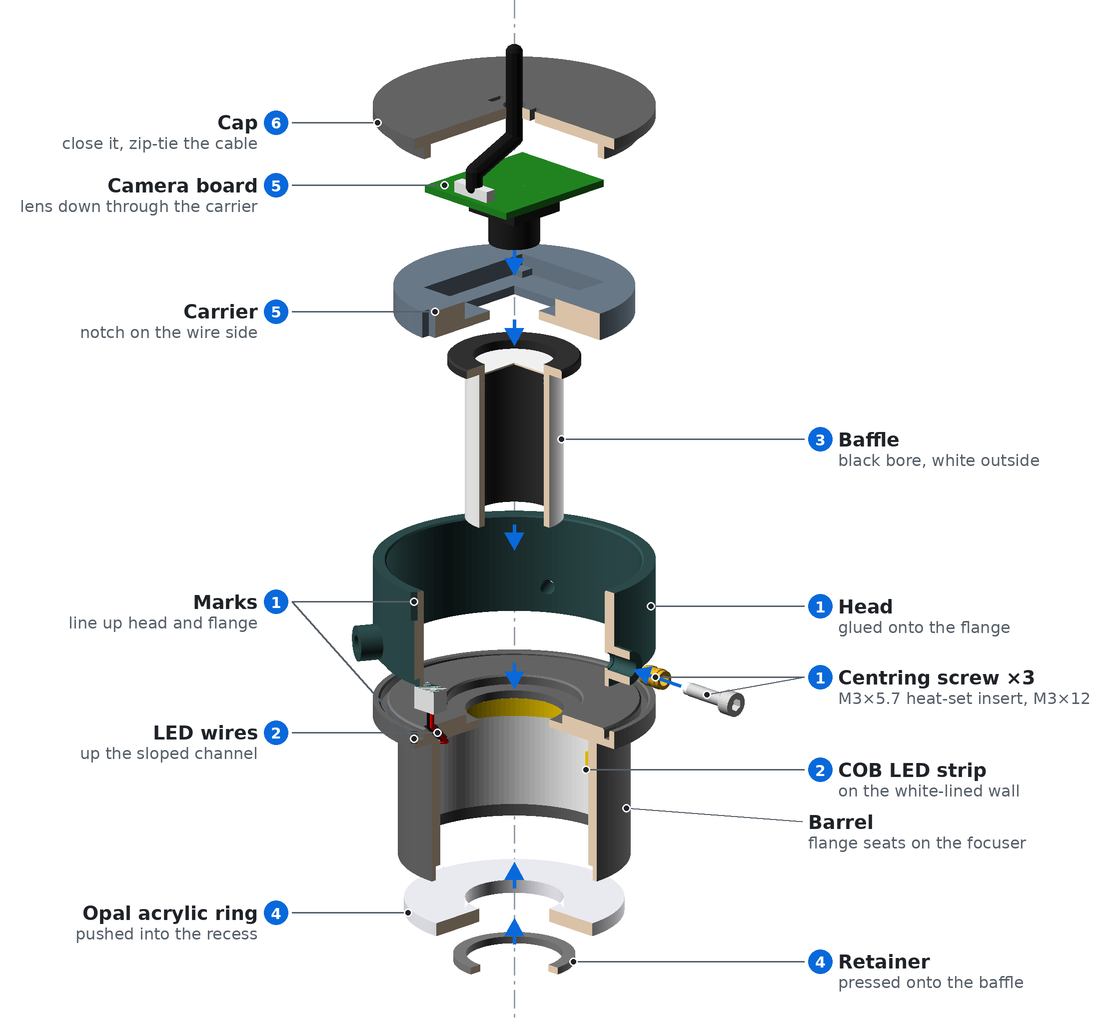
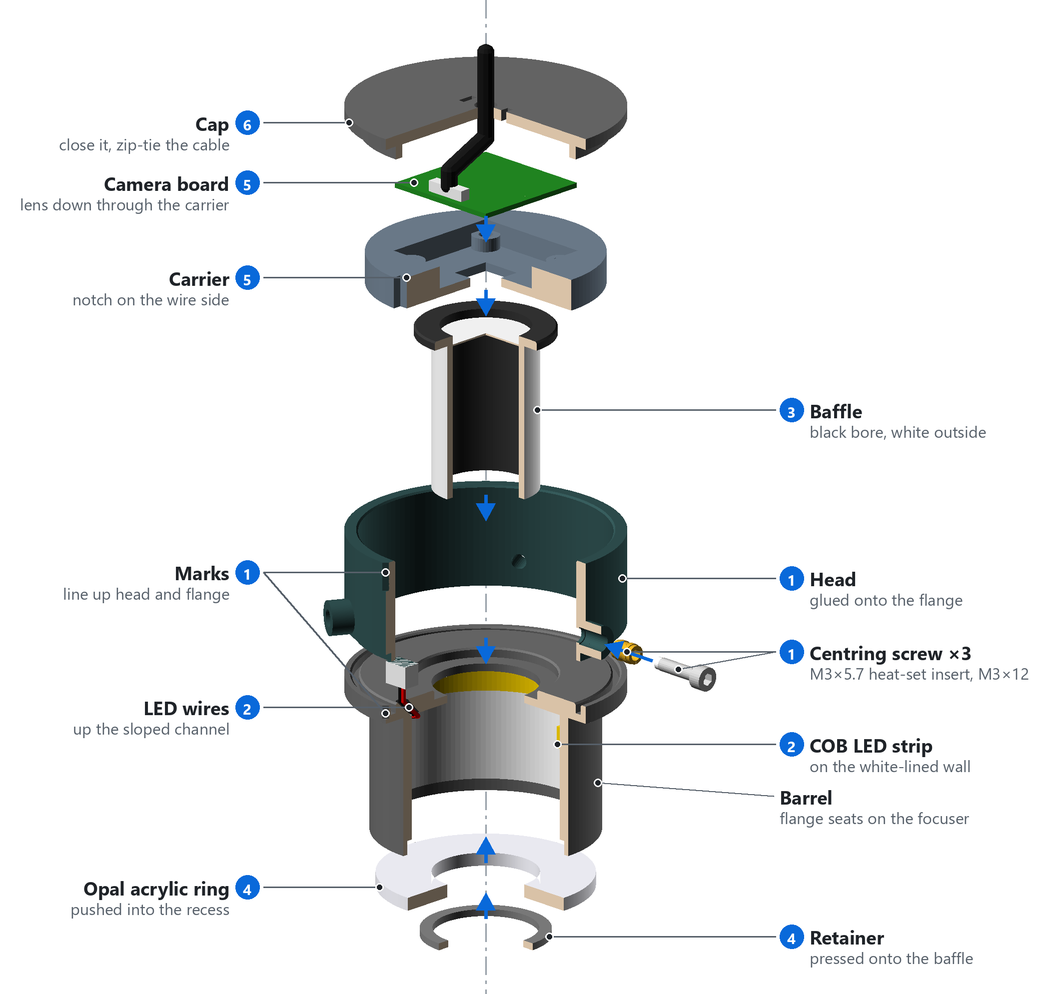
updated readme and default preset based on the received board and measurements

diff --git a/hardware/README.md b/hardware/README.md
@@ -50,11 +50,10 @@ circle's fitted centre, so they still work as concentricity references.
 > `preset()`, or switch to `camera = "custom"` and use the `custom_*` values. The lens
 > body diameter and drop decide the baffle size and whether the lens physically fits.
 >
-> `imx179_db05` takes its PCB and holes from the listing's drawing, which shows a
-> fixed-focus revision of the board. The focus can's size and height come from photos.
-> The photos hint that the lens sits ~1 mm off-centre towards the connector edge, so
-> check the lens offset too. The connector's pins come through on the lens side: trim
-> them below the 3 mm stand-off (the height of the insert bosses), or the board won't
+> `imx179_db05` is measured on the board: a 28 × 28 × 1.12 mm PCB with 2.5 mm holes on
+> a 23 mm square, and a centred 8.46 × 8.46 × 4.5 mm focus can. The connector's pins
+> come through on the lens side, about 2.35 mm: they clear the 3 mm stand-off (the
+> height of the insert bosses), but trim them if yours are longer, or the board won't
 > sit flat on them.
 
 For a board not in the presets, set `camera = "custom"` and fill in `custom_pcb`,
